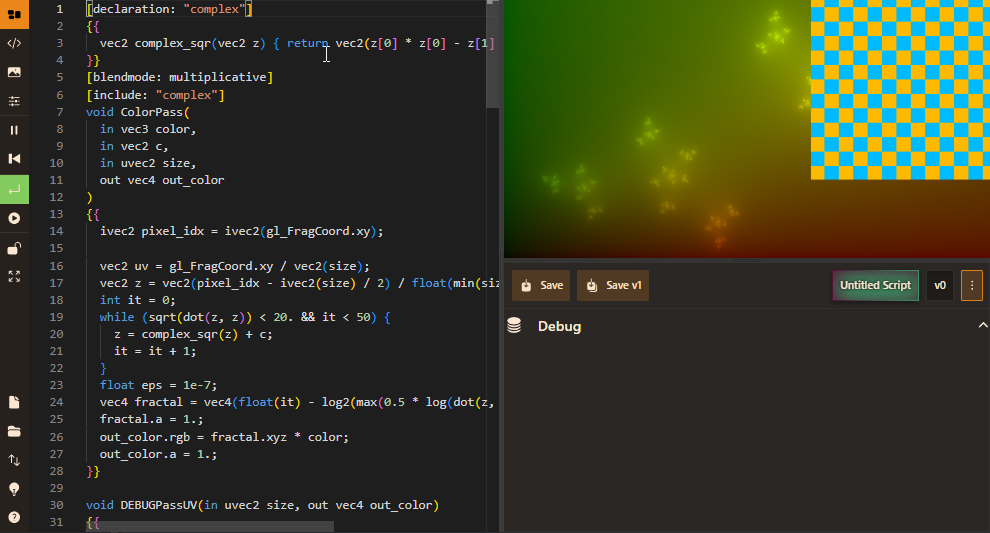
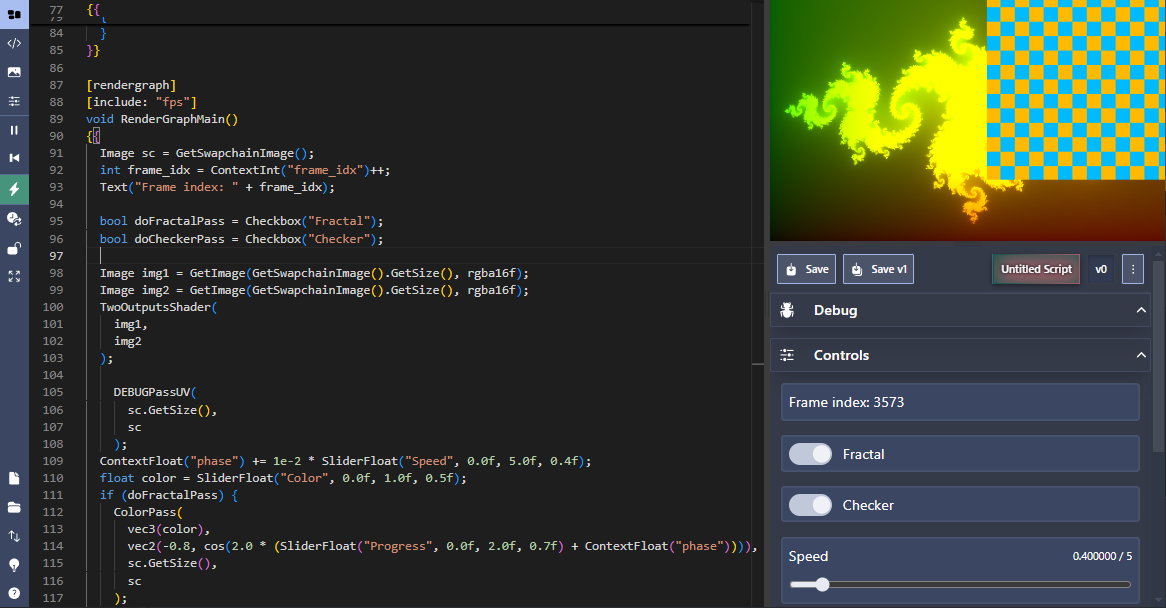
new theme, screens, basic readme

diff --git a/src/app.html b/src/app.html
@@ -11,7 +11,7 @@
     <link rel="manifest" href="./manifest.json">
     %sveltekit.head%
   </head>
-  <body data-sveltekit-preload-data="hover" data-theme="vintage">
+  <body data-sveltekit-preload-data="hover" data-theme="hamlindigo">
     <div style="display: contents" class="h-full overflow-hidden">%sveltekit.body%</div>
   </body>
 </html>

diff --git a/src/webui.config.js b/src/webui.config.js
@@ -13,7 +13,7 @@ export const cfg = {
   APP_TITLE:          'LegitSL Editor',
   APP_SHORT_NAME:     'LSL Editor',
   APP_DESCRIPTION:    'Web-based editor for LegitSL',  
-  APP_THEME:          'vintage', // skeleton UI theme
+  APP_THEME:          'hamlindigo', // skeleton UI theme
 
   // LOGGING
   //------------------
